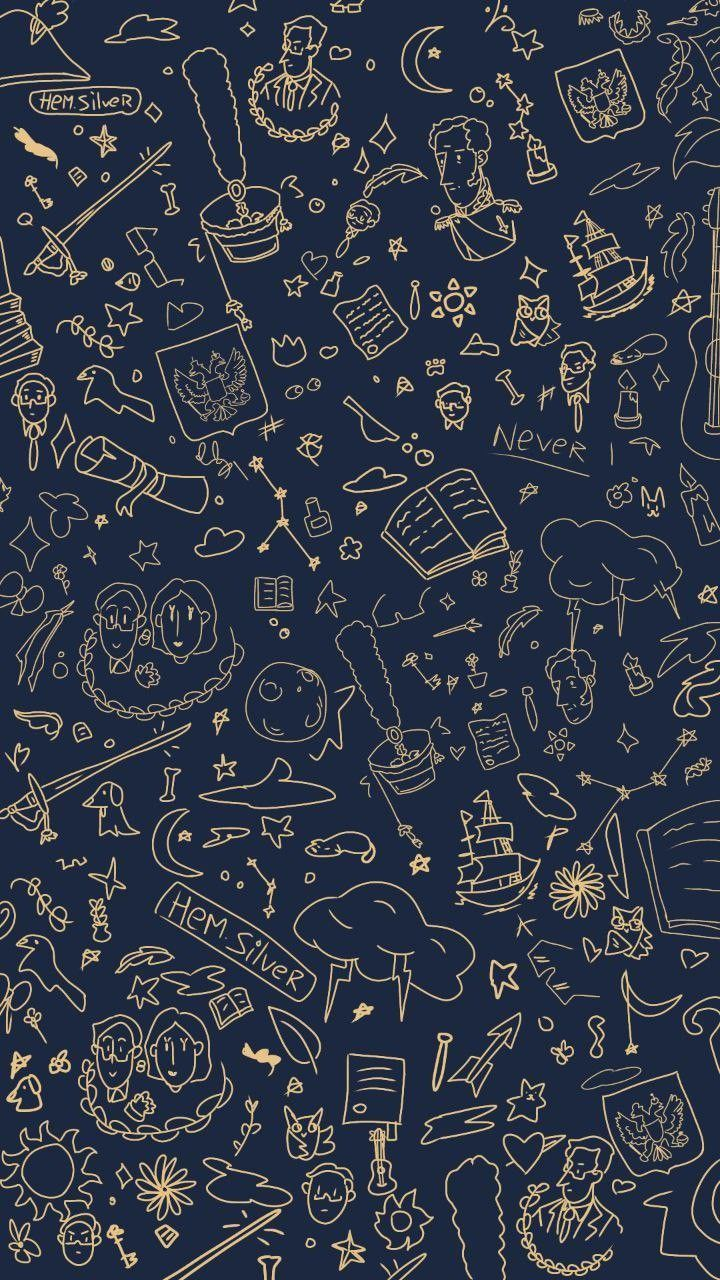
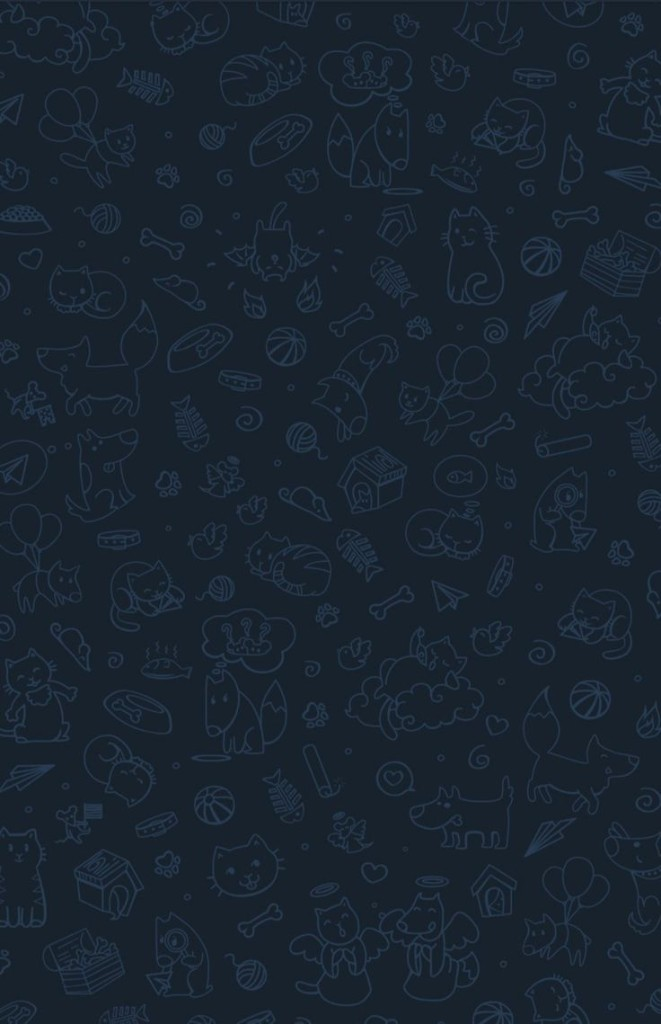
Fix camera re-enable after in-app PiP and refresh chat wallpapers.
Keep video-UI camera toggles from being blocked by stale audio-first flags, and soften chat wallpaper overlays with the new dark theme plate.

Changed region(s): [[0.0, 0.0, 1.0, 1.0]]

diff --git a/frontend/src/webrtc/sessions/VideoCallSession.ts b/frontend/src/webrtc/sessions/VideoCallSession.ts
@@ -1487,12 +1487,15 @@ export class VideoCallSession extends SimpleEventEmitter {
     const audioFirstCall =
       !!this.config.startWithCamOff ||
       (cidForMedia ? getCallMediaHint(cidForMedia) === 'audio' : false);
+    const stayOnVideoUi = (global as any).__stayOnVideoCallUiRef?.current === true;
+    // stayOnVideoUi достаточно: после in-app PiP userExpand могут сбросить как stale,
+    // но пользователь всё ещё на video UI и должен мочь снова включить камеру.
     const userLeftAudioOnlyForVideo =
       enabled &&
       this.config.getIsDirectCall?.() &&
       !isInAudioOnlyCallUi() &&
-      (global as any).__stayOnVideoCallUiRef?.current === true &&
-      (!audioFirstCall || isDirectCallUserRequestedVideoExpand());
+      stayOnVideoUi &&
+      (!audioFirstCall || isDirectCallUserRequestedVideoExpand() || stayOnVideoUi);
     if (
       enabled &&
       this.config.getIsDirectCall?.() &&
@@ -1501,13 +1504,19 @@ export class VideoCallSession extends SimpleEventEmitter {
         isInAudioOnlyCallUi() ||
         this.directCallAudioOnlyConsumerDefer)
     ) {
-      logger.debug('[VideoCallSession] Skip camera enable — direct-call audio-only UI');
+      logger.warn('[VideoCallSession] Skip camera enable — direct-call audio-only UI', {
+        stayOnVideoUi,
+        userExpand: isDirectCallUserRequestedVideoExpand(),
+        audioFirstCall,
+        defer: this.directCallAudioOnlyConsumerDefer,
+      });
       return;
     }
     if (enabled && this.config.getIsDirectCall?.() && !userLeftAudioOnlyForVideo) {
-      if (audioFirstCall && !isDirectCallUserRequestedVideoExpand()) {
-        logger.debug(
+      if (audioFirstCall && !isDirectCallUserRequestedVideoExpand() && !stayOnVideoUi) {
+        logger.warn(
           '[VideoCallSession] Skip camera enable — audio-first call without explicit video UI request',
+          { stayOnVideoUi, userExpand: isDirectCallUserRequestedVideoExpand() },
         );
         return;
       }
@@ -2417,6 +2426,9 @@ export class VideoCallSession extends SimpleEventEmitter {
 
   private isDirectCallAudioFirstWithoutUserVideo(): boolean {
     if (!this.config.getIsDirectCall?.()) return false;
+    try {
+      if ((global as any).__stayOnVideoCallUiRef?.current === true) return false;
+    } catch {}
     const cid = String(this.getCallId?.() || this.callId || '').trim();
     const audioFirst =
       !!this.config.startWithCamOff ||
@@ -2447,9 +2459,9 @@ export class VideoCallSession extends SimpleEventEmitter {
   private isLocalDirectCallAudioOnlyUi(): boolean {
     try {
       const g = global as any;
-      if (g.__preferAudioOnlyUiOnNextVideoCallRef?.current === true) return true;
-      // Пользователь на video UI (кнопка «видео»): не держать audio-only по startWithCamOff / callMedia hint.
+      // Как isInAudioOnlyCallUi: stayOnVideo побеждает stale preferAudioOnly после PiP return.
       if (g.__stayOnVideoCallUiRef?.current === true) return false;
+      if (g.__preferAudioOnlyUiOnNextVideoCallRef?.current === true) return true;
       if (g.__inAudioOnlyUiRef?.current === true) return true;
       if (g.__pipAudioOnlyPlaceholderRef?.current === true) {
         const live =

diff --git a/frontend/components/VideoChat/VideoCall.tsx b/frontend/components/VideoChat/VideoCall.tsx
@@ -259,7 +259,13 @@ function stripStaleDirectCallPiPNavParamsIfNeeded(
     audioOnlyPiPReturn: false,
     preferVideoCallUi: false,
   });
+  // Не затираем userExpand, если пользователь уже на video UI (иначе после PiP
+  // повторное включение камеры тихо блокируется audio-first guard'ом).
+  const stayOnVideoUi = (global as any).__stayOnVideoCallUiRef?.current === true;
   clearStaleDirectCallVideoExpandGlobalHints();
+  if (stayOnVideoUi) {
+    markDirectCallUserRequestedVideoExpand();
+  }
 }
 
 function isFreshDirectCallAudioAcceptRoute(params?: {
@@ -4667,10 +4673,21 @@ const VideoCall: React.FC<Props> = ({ route, screenNavigation }) => {
         stayOnVideoCallUiRef.current = true;
       }
       const leavingAudioOnlyUi = inAudioOnlyUiRef.current || isInAudioOnlyCallUi();
-      if (leavingAudioOnlyUi) {
+      // Включаем камеру на уже открытом video UI (в т.ч. после PiP): userExpand могли сбросить как stale.
+      const enablingCam = !camOn;
+      if (enablingCam || leavingAudioOnlyUi) {
         markDirectCallUserRequestedVideoExpand();
-        rememberAudioPageRouteBeforeVideoUi();
         stayOnVideoCallUiRef.current = true;
+        try {
+          const g = global as any;
+          g.__preferAudioOnlyUiOnNextVideoCallRef =
+            g.__preferAudioOnlyUiOnNextVideoCallRef || { current: false };
+          g.__preferAudioOnlyUiOnNextVideoCallRef.current = false;
+          if (g.__inAudioOnlyUiRef) g.__inAudioOnlyUiRef.current = false;
+        } catch {}
+      }
+      if (leavingAudioOnlyUi) {
+        rememberAudioPageRouteBeforeVideoUi();
         markDirectCallVideoMediaActive();
         directCallMountAudioUiAppliedRef.current = null;
         directCallPreferVideoExpandAppliedRef.current = null;
@@ -5508,10 +5525,20 @@ const VideoCall: React.FC<Props> = ({ route, screenNavigation }) => {
     const audioFirstMount = resolveDirectCallAudioFirst(route?.params ?? {}, mountKey || null);
 
     if (isStaleDirectCallVideoExpandGlobalHint(route?.params ?? {})) {
+      const stayOnVideoUi = g.__stayOnVideoCallUiRef?.current === true;
       clearStaleDirectCallVideoExpandGlobalHints();
+      if (stayOnVideoUi) {
+        markDirectCallUserRequestedVideoExpand();
+      }
     }
     const explicitVideoPiPReturn = isExplicitDirectCallVideoPiPReturnRoute(route?.params ?? {});
-    if (audioFirstMount && !explicitAudioPiPReturn && !explicitVideoPiPReturn) {
+    // Не поднимать audio-only globals, если пользователь уже на video UI (после PiP return).
+    if (
+      audioFirstMount &&
+      !explicitAudioPiPReturn &&
+      !explicitVideoPiPReturn &&
+      g.__stayOnVideoCallUiRef?.current !== true
+    ) {
       g.__preferAudioOnlyUiOnNextVideoCallRef.current = true;
       try {
         if (g.__inAudioOnlyUiRef) g.__inAudioOnlyUiRef.current = true;

diff --git a/frontend/screens/chat/ChatParallaxWallpaper.tsx b/frontend/screens/chat/ChatParallaxWallpaper.tsx
@@ -134,8 +134,8 @@ export function ChatParallaxWallpaper({ isDark }: { isDark: boolean }) {
   // cover = весь экран заполнен картинкой (без боковых «линий» от contain).
   const imgW = width + MAX_SHIFT * 2;
   const imgH = height + MAX_SHIFT * 2;
-  const themeWash = isDark ? "rgba(21, 31, 51, 0.72)" : "rgba(182, 203, 216, 0.62)";
-  const themeShade = isDark ? "rgba(8, 12, 20, 0.48)" : "rgba(140, 158, 180, 0.36)";
+  const themeWash = isDark ? "rgba(21, 31, 51, 0.58)" : "rgba(182, 203, 216, 0.58)";
+  const themeShade = isDark ? "rgba(8, 12, 20, 0.36)" : "rgba(140, 158, 180, 0.33)";
 
   return (
     <View
